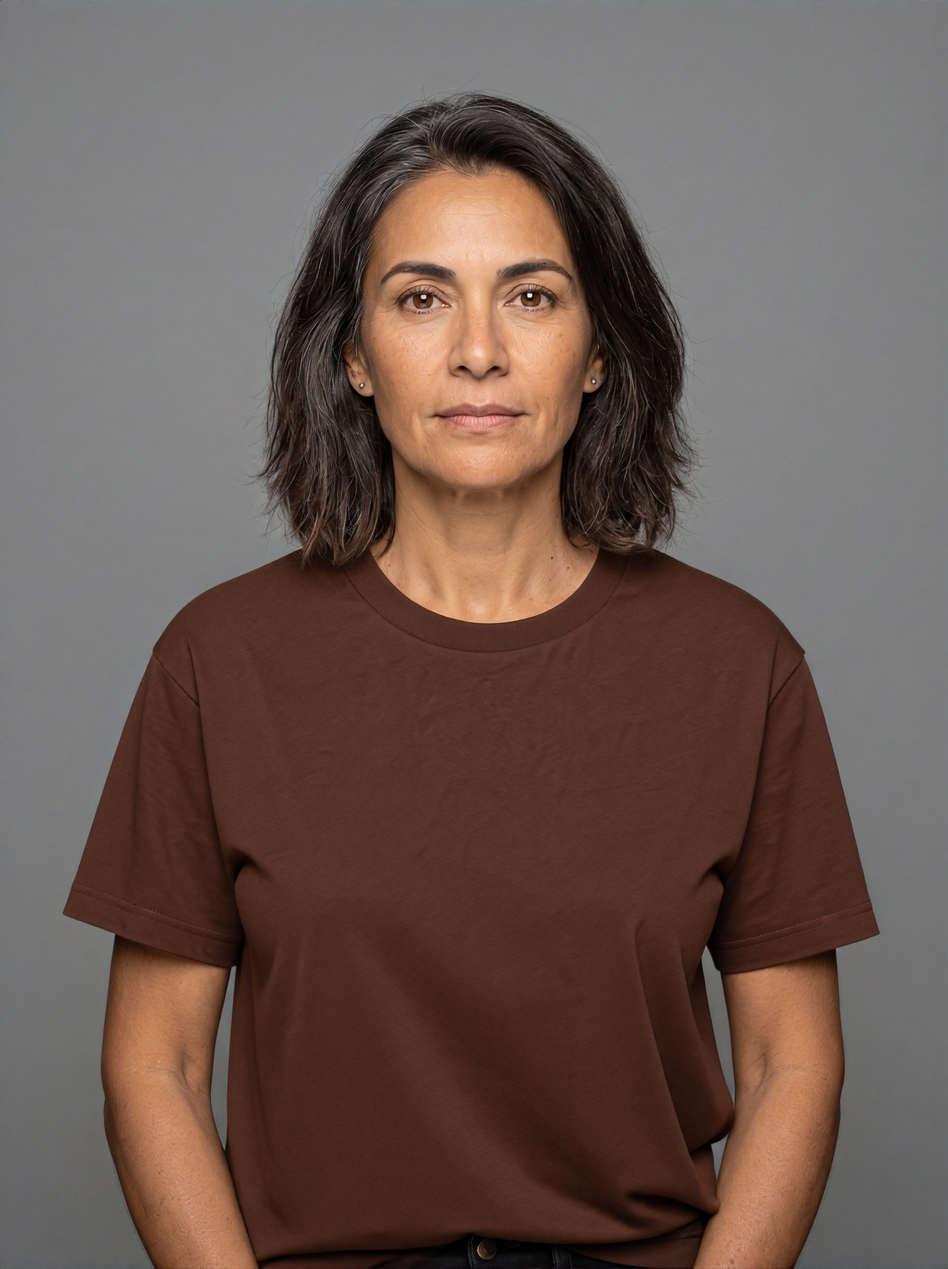
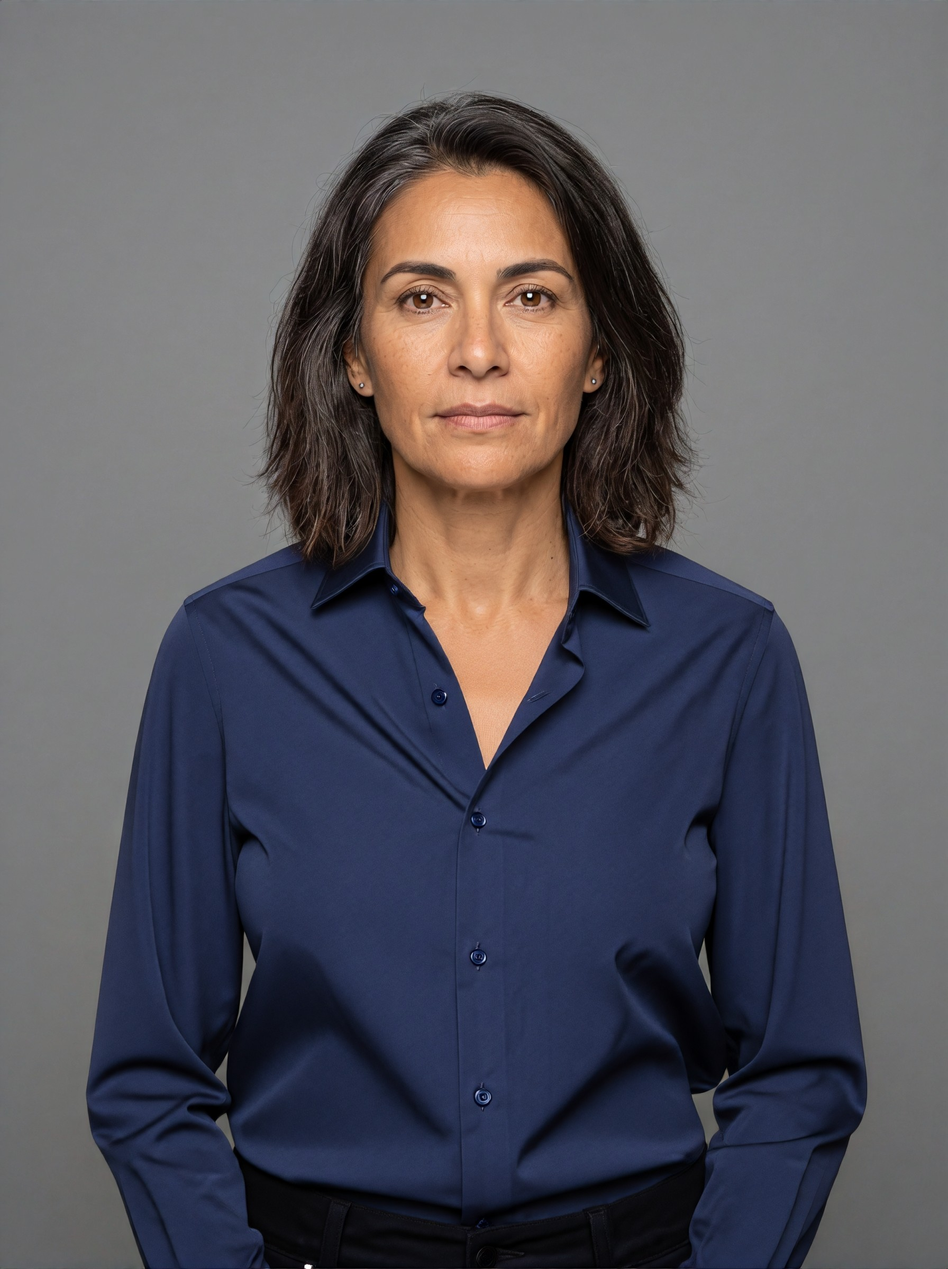
feat(casting-app): seed run re-shot on a navy shirt — colorway re-measured (#3a425e), same finding: low contrast at Fitzpatrick VI

diff --git a/app/api/fanout/route.ts b/app/api/fanout/route.ts
@@ -93,7 +93,7 @@ export async function POST(request: Request) {
           productBytes = Buffer.from(body.productImageBase64, "base64");
           productContentType = body.contentType ?? "image/png";
         } else {
-          productBytes = await fetchAsBuffer(new URL("/panel/product-images/demo-product-tshirt.png", request.url));
+          productBytes = await fetchAsBuffer(new URL("/panel/product-images/demo-product-navy-shirt.png", request.url));
         }
 
         const panelMembers = await Promise.all(
